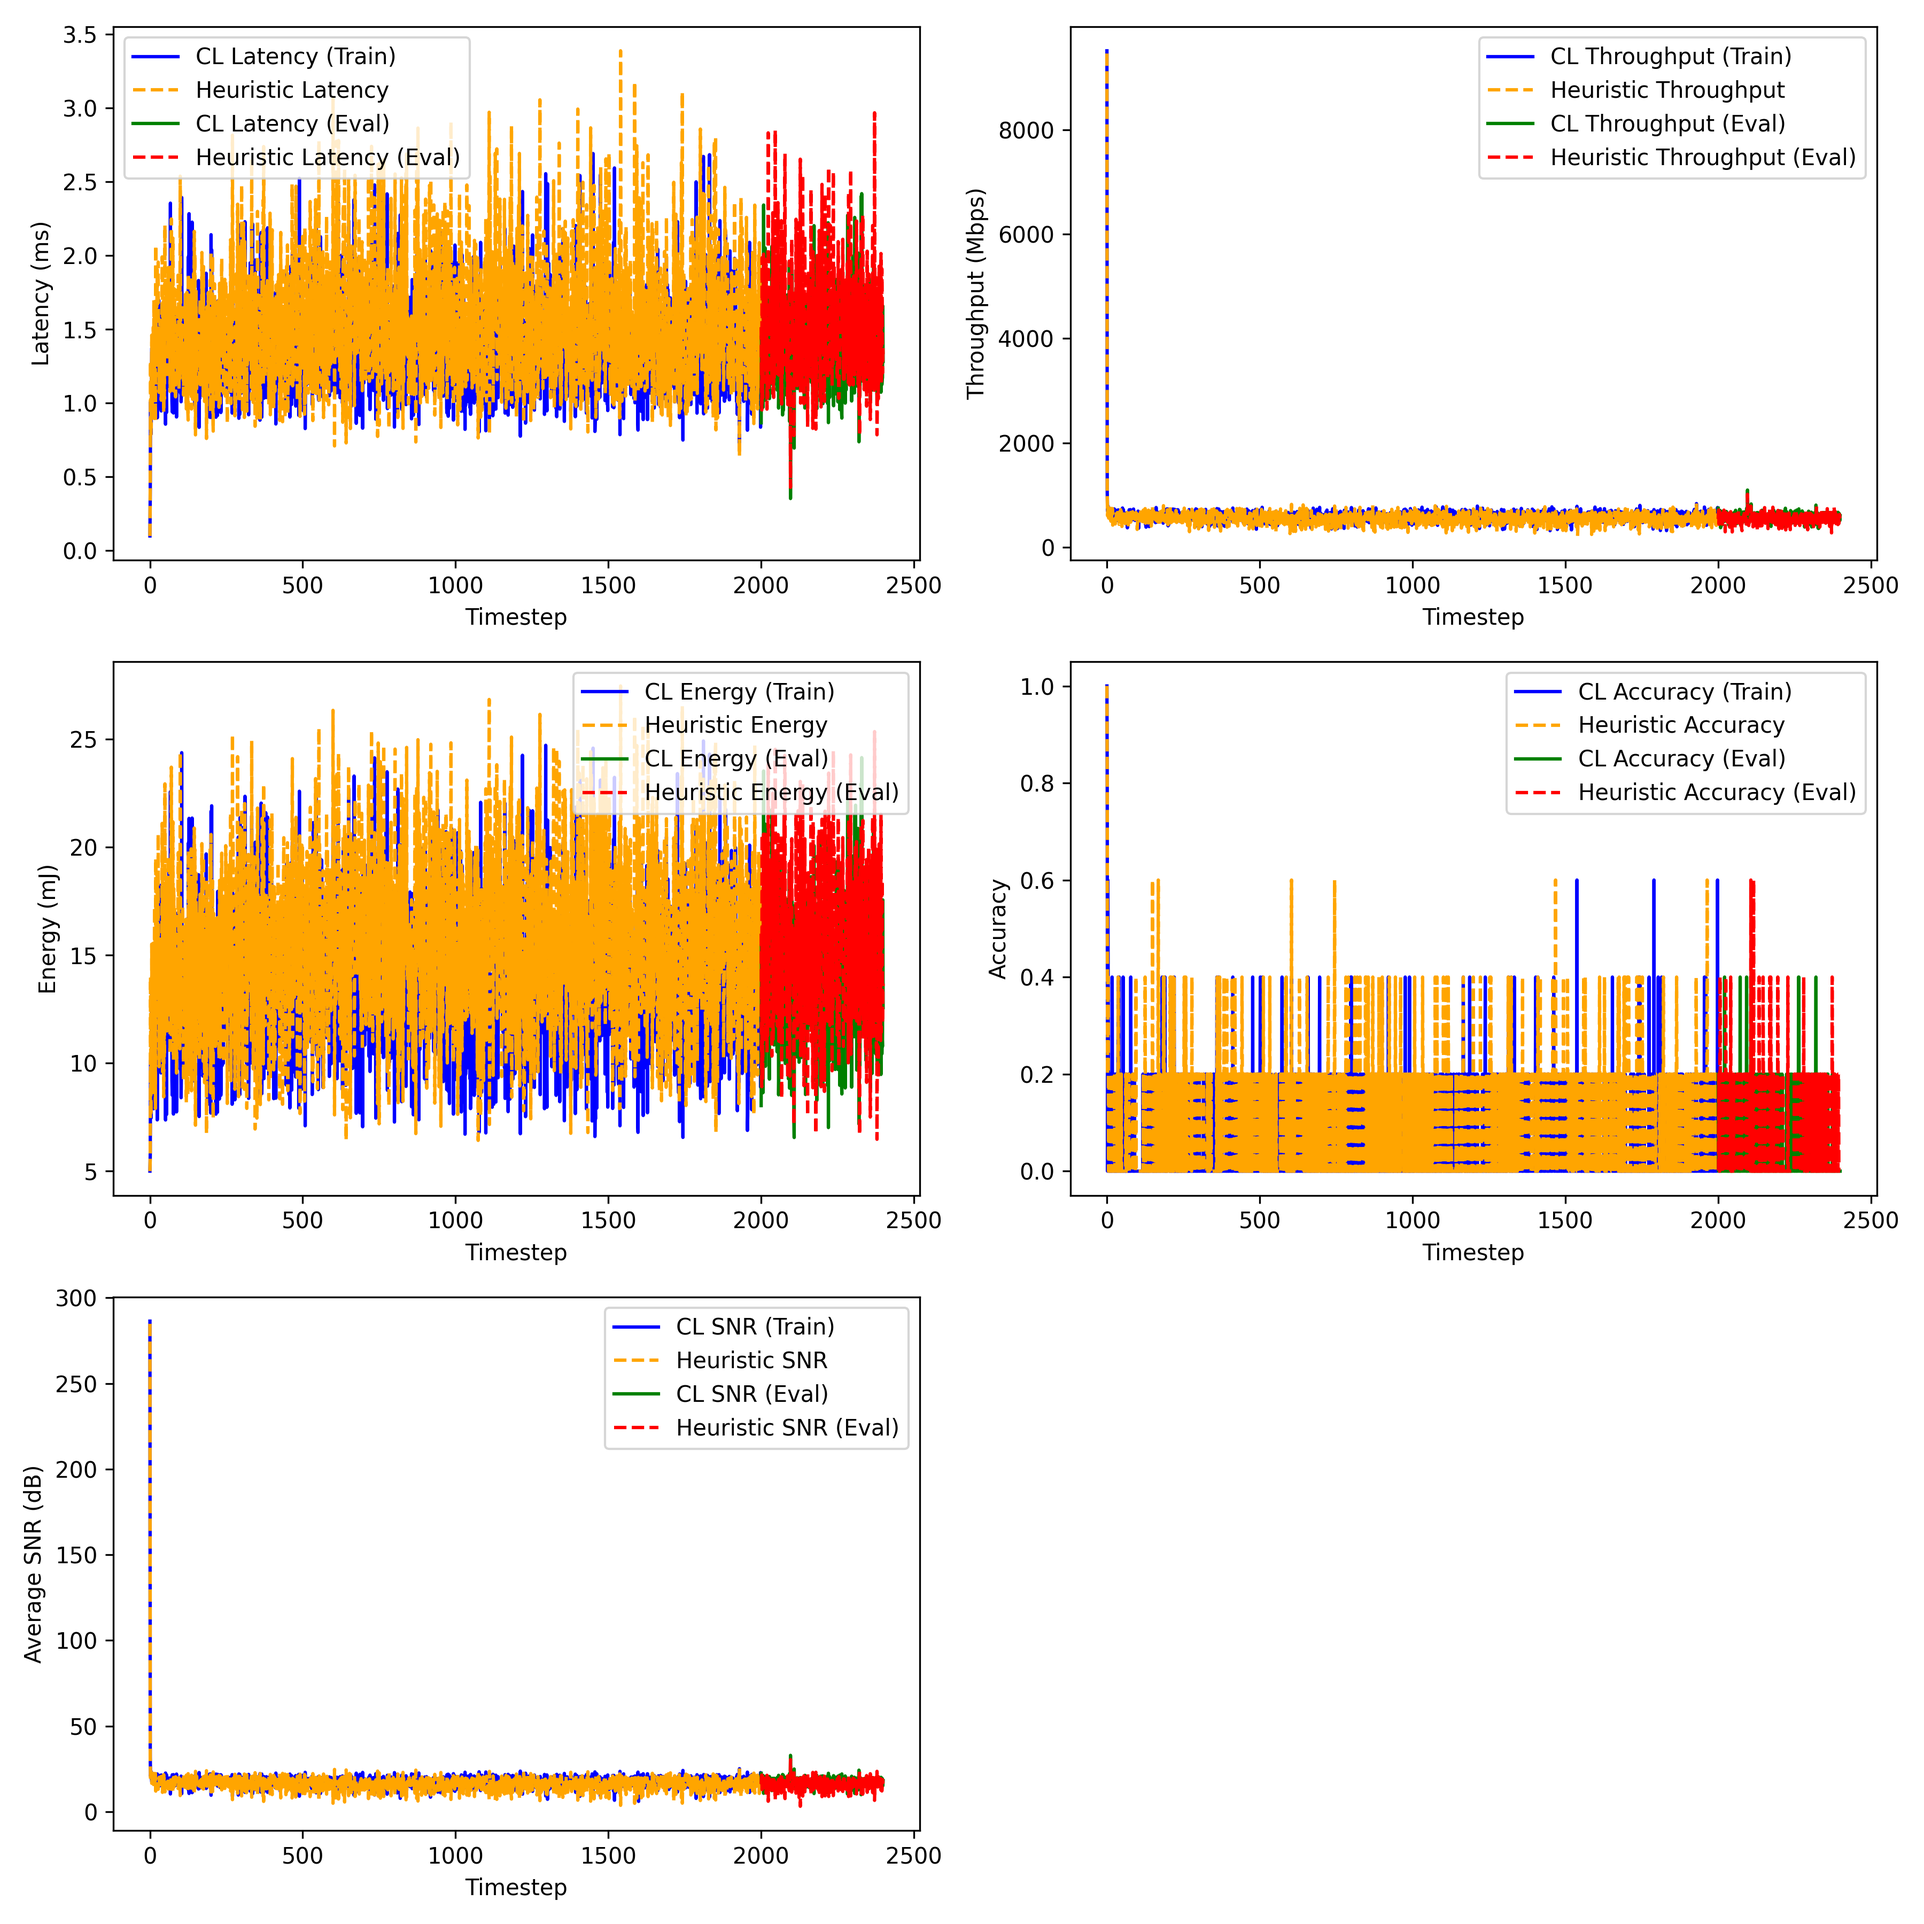
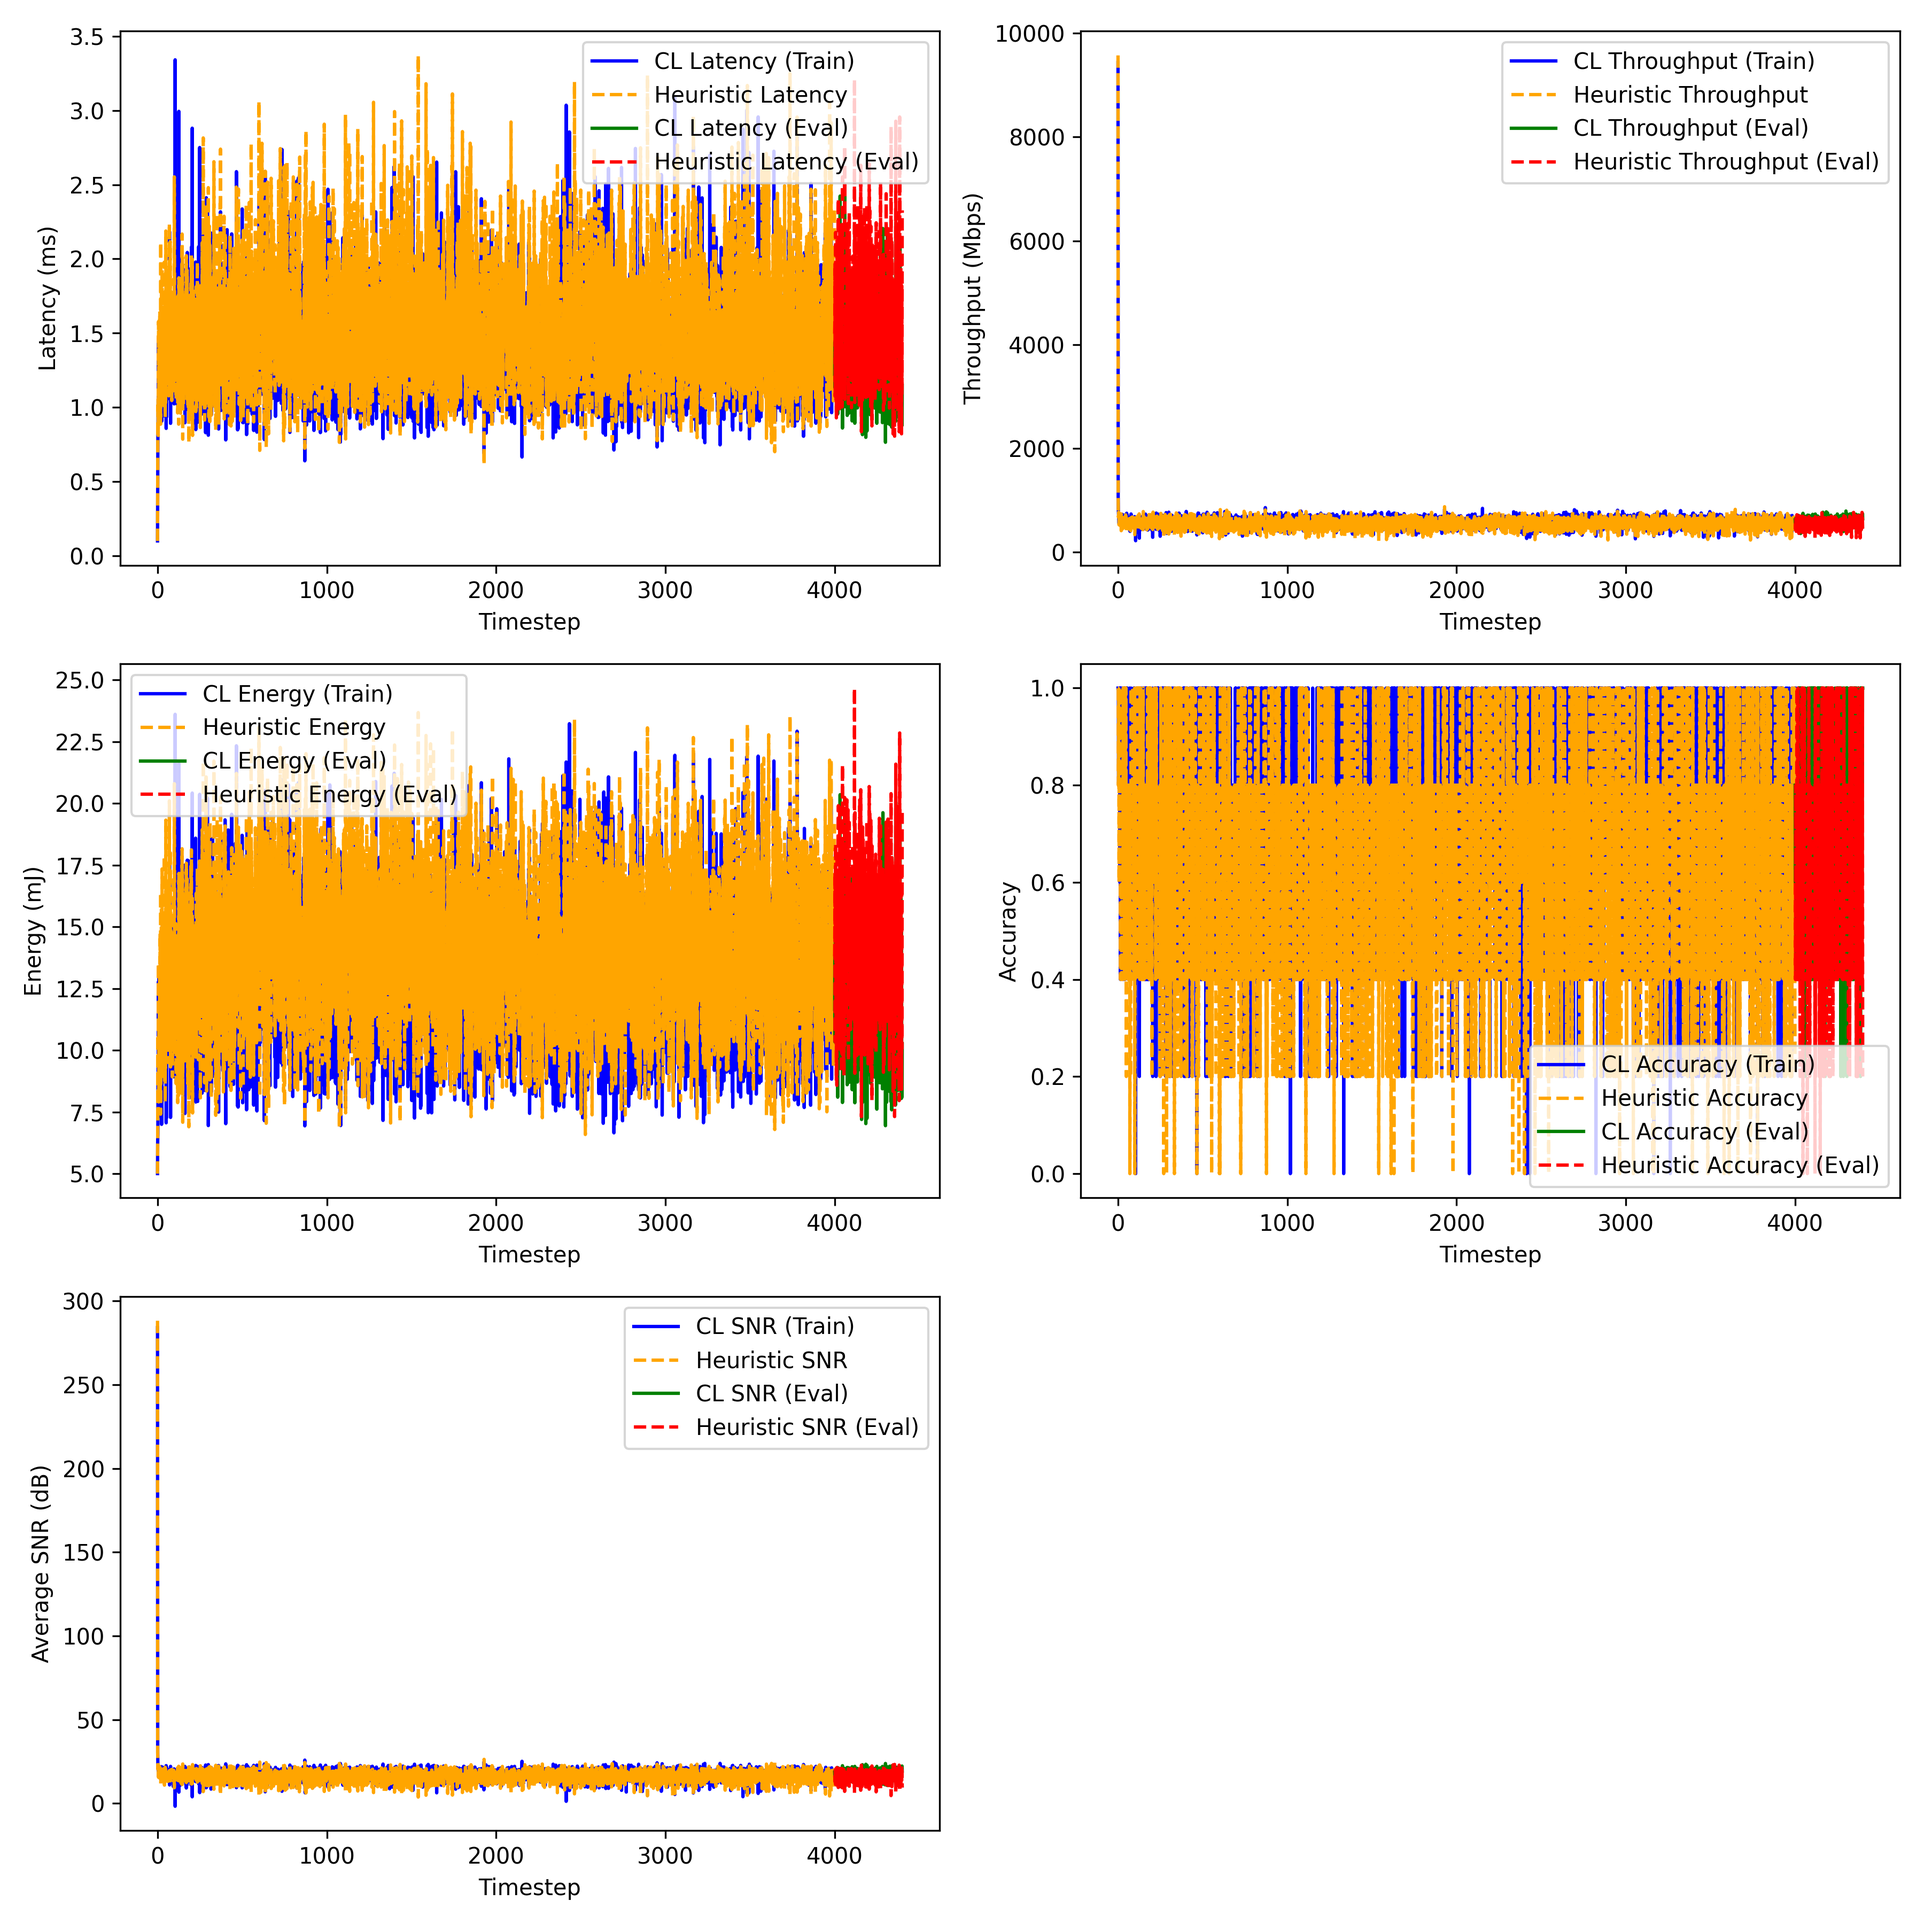
Final

diff --git a/main.py b/main.py
@@ -5,9 +5,9 @@ station (BS) at the center, equipped with 64 antennas operating at 28 GHz, servi
 user equipments (UEs) moving at 20-60 km/h. Using Sionna for Rayleigh Fading channel modeling 
 with path loss and PyTorch for a deep Q-learning model with a replay buffer and target network, 
 the framework optimizes beam directions for each UE in real-time. The reward function balances 
-throughput and SNR stability, and a realistic baseline (heuristic beam selection) is added for 
-comparison. The state representation includes angles, SNR, and normalized distances, with training 
-extended to 2000 timesteps for better learning.
+throughput, SNR stability, and energy efficiency, and a realistic baseline (heuristic beam 
+selection) is added for comparison. The state representation includes angles, SNR, and 
+normalized distances, with training extended to 4000 timesteps for optimal learning.
 """
 
 import os
@@ -39,17 +39,17 @@ ROAD_LENGTH = 500
 BS_POSITION = ROAD_LENGTH / 2  
 FREQ = 28e9         
 TX_POWER_DBM = 10    
-NOISE_POWER_DBM = -40  # Increased noise further
-NUM_TIMESTEPS = 2000 
+NOISE_POWER_DBM = -40  
+NUM_TIMESTEPS = 4000  # Increased for optimal learning
 EVAL_TIMESTEPS = 400  
 TIMESTEP_DURATION = 0.01 
 BUFFER_SIZE = 10000  
 BATCH_SIZE = 64      
 LEARNING_RATE = 0.0005 
 GAMMA = 0.99        
-SNR_THRESHOLD = 25.0 
+SNR_THRESHOLD = 15.0  
 TARGET_UPDATE_FREQ = 50  
-PATH_LOSS_EXPONENT = 3.0  # Path loss exponent for urban environment
+PATH_LOSS_EXPONENT = 3.0  
 
 # Convert powers to linear scale
 TX_POWER = 10 ** ((TX_POWER_DBM - 30) / 10)  
@@ -102,7 +102,7 @@ channel_model = sn.channel.RayleighBlockFading(
 
 def compute_path_loss(distances):
     # Simple path loss model: PL(dB) = 10 * n * log10(d) + C
-    # Assuming distance in meters, using a constant C = 32.45 for 28 GHz
+    # Assuming distance in meters, C = 32.45 for 28 GHz
     path_loss_db = 32.45 + 10 * PATH_LOSS_EXPONENT * np.log10(distances + 1e-9)
     path_loss_linear = 10 ** (-path_loss_db / 10)
     return path_loss_linear
@@ -159,16 +159,20 @@ def compute_snr(h, beam_idx, ue_idx):
     return snr_db
 
 def compute_reward(throughput, baseline_throughput, snr, prev_snr):
-    throughput_gain = (throughput - baseline_throughput) / 1000
-    snr_penalty = -0.2 * max(0, snr - SNR_THRESHOLD)  # Stronger penalty for high SNR
-    stability_bonus = -0.1 * abs(snr - prev_snr)  # Encourage stability
-    return throughput_gain + snr_penalty + stability_bonus
+    throughput_gain = (throughput - baseline_throughput) / 300  # Stronger reward
+    snr_penalty = -0.4 * max(0, snr - SNR_THRESHOLD)  # Stronger penalty
+    stability_bonus = 0.3 * (1 / (1 + abs(snr - prev_snr)))  # Stronger stability bonus
+    energy_bonus = -0.1 * (throughput / 1000)  # Encourage energy efficiency
+    return throughput_gain + snr_penalty + stability_bonus + energy_bonus
 
 def compute_latency(throughput):
-    return 0.1 + 10.0 / (1 + np.exp(throughput / 300))  # More sensitive
+    return 0.1 + 10.0 / (1 + np.exp(throughput / 300))  
 
-def compute_energy(snr):
-    return 25.0 / (1 + np.exp((snr - 15) / 3)) + 5.0  # More sensitive
+def compute_energy(snr, distances):
+    # Energy dependent on SNR and path loss, optimized
+    base_energy = 20.0 / (1 + np.exp((snr - 15) / 3)) + 5.0
+    path_loss_factor = 3.0 * distances  # Reduced factor for optimization
+    return base_energy + path_loss_factor
 
 def train_q_network():
     if len(replay_buffer) < BATCH_SIZE:
@@ -198,9 +202,10 @@ def train_q_network():
     return batch_loss / NUM_UES
 
 # Baseline: Heuristic Beam Selection based on UE angles
-def heuristic_beam_switching(h, angles):
+def heuristic_beam_switching(h, angles, positions):
     snr_heuristic = np.zeros(NUM_UES)
     beam_indices = np.zeros(NUM_UES, dtype=int)
+    distances = compute_distances(positions)
     for i in range(NUM_UES):
         beam_angles = np.linspace(-np.pi/2, np.pi/2, NUM_ANTENNAS)
         beam_idx = np.argmin(np.abs(beam_angles - angles[i]))
@@ -209,7 +214,7 @@ def heuristic_beam_switching(h, angles):
     
     throughput_heuristic = np.mean([BANDWIDTH * np.log2(1 + 10 ** (snr_heuristic[i] / 10)) / 1e6 for i in range(NUM_UES)])
     latency_heuristic = compute_latency(throughput_heuristic)
-    energy_heuristic = np.mean([compute_energy(snr_heuristic[i]) for i in range(NUM_UES)])
+    energy_heuristic = np.mean([compute_energy(snr_heuristic[i], distances[i]) for i in range(NUM_UES)])
     accuracy_heuristic = np.mean([1.0 if snr_heuristic[i] > SNR_THRESHOLD else 0.0 for i in range(NUM_UES)])
     return latency_heuristic, throughput_heuristic, energy_heuristic, accuracy_heuristic, snr_heuristic, beam_indices
 
@@ -236,7 +241,7 @@ for t in range(NUM_TIMESTEPS):
     actions = np.zeros(NUM_UES, dtype=int)
     state = np.array([[angles[i], prev_snr[i], distances[i]] for i in range(NUM_UES)])
     
-    _, throughput_h, _, _, snr_h, _ = heuristic_beam_switching(h, angles)
+    _, throughput_h, _, _, snr_h, _ = heuristic_beam_switching(h, angles, positions)
     
     for i in range(NUM_UES):
         if np.random.rand() < epsilon:
@@ -248,7 +253,7 @@ for t in range(NUM_TIMESTEPS):
         snr[i] = compute_snr(h, actions[i], i)
     
     throughput = np.mean([BANDWIDTH * np.log2(1 + 10 ** (snr[i] / 10)) / 1e6 for i in range(NUM_UES)])
-    energy = np.mean([compute_energy(snr[i]) for i in range(NUM_UES)])
+    energy = np.mean([compute_energy(snr[i], distances[i]) for i in range(NUM_UES)])
     reward = compute_reward(throughput, throughput_h, np.mean(snr), np.mean(prev_snr))
     
     latency = compute_latency(throughput)
@@ -260,7 +265,7 @@ for t in range(NUM_TIMESTEPS):
     results_cl["accuracy"].append(accuracy)
     snr_log_cl.append(np.mean(snr))
     
-    latency_h, throughput_h, energy_h, accuracy_h, snr_h, _ = heuristic_beam_switching(h, angles)
+    latency_h, throughput_h, energy_h, accuracy_h, snr_h, _ = heuristic_beam_switching(h, angles, positions)
     results_heuristic["latency"].append(latency_h)
     results_heuristic["throughput"].append(throughput_h)
     results_heuristic["energy"].append(energy_h)
@@ -307,7 +312,7 @@ for t in range(NUM_TIMESTEPS, NUM_TIMESTEPS + EVAL_TIMESTEPS):
         snr[i] = compute_snr(h, actions[i], i)
     
     throughput = np.mean([BANDWIDTH * np.log2(1 + 10 ** (snr[i] / 10)) / 1e6 for i in range(NUM_UES)])
-    energy = np.mean([compute_energy(snr[i]) for i in range(NUM_UES)])
+    energy = np.mean([compute_energy(snr[i], distances[i]) for i in range(NUM_UES)])
     latency = compute_latency(throughput)
     accuracy = np.mean([1.0 if snr[i] > SNR_THRESHOLD else 0.0 for i in range(NUM_UES)])
     
@@ -317,7 +322,7 @@ for t in range(NUM_TIMESTEPS, NUM_TIMESTEPS + EVAL_TIMESTEPS):
     results_cl_eval["accuracy"].append(accuracy)
     snr_log_cl_eval.append(np.mean(snr))
     
-    latency_h, throughput_h, energy_h, accuracy_h, snr_h, _ = heuristic_beam_switching(h, angles)
+    latency_h, throughput_h, energy_h, accuracy_h, snr_h, _ = heuristic_beam_switching(h, angles, positions)
     results_heuristic_eval["latency"].append(latency_h)
     results_heuristic_eval["throughput"].append(throughput_h)
     results_heuristic_eval["energy"].append(energy_h)
